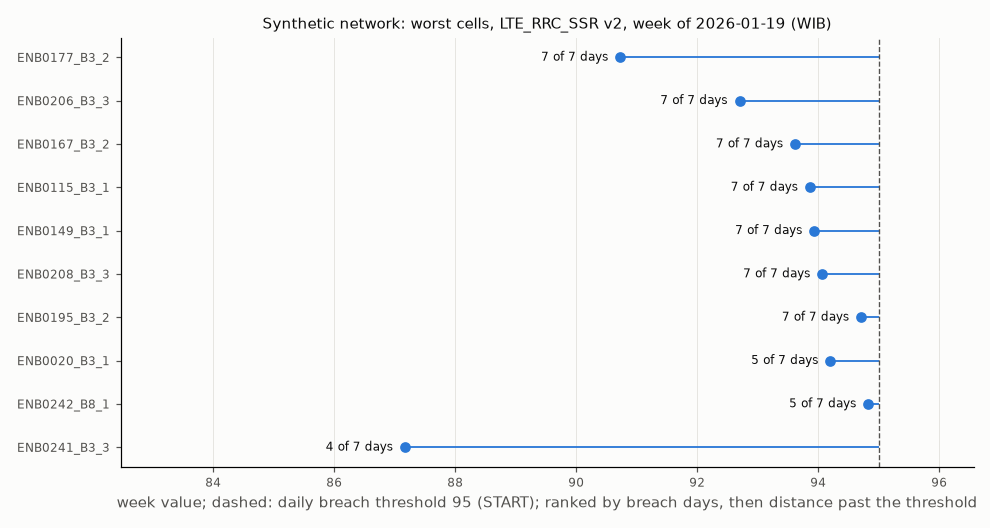
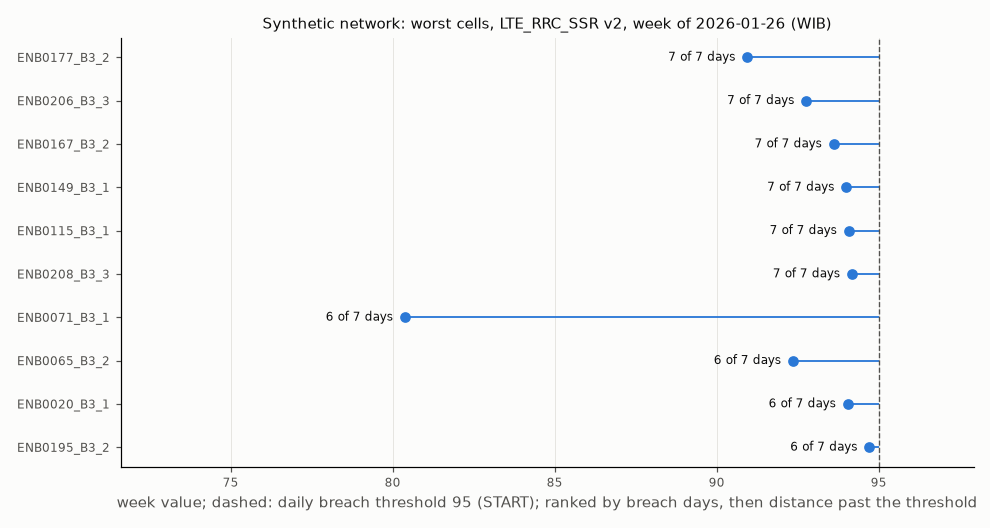
feat: weight prb by n_rb across cells and explain the weekend throughput mix

diff --git a/src/ran_lakehouse/lake/gold_report.py b/src/ran_lakehouse/lake/gold_report.py
@@ -21,6 +21,7 @@ from pathlib import Path
 from typing import Any
 
 import matplotlib
+import pyarrow as pa
 
 matplotlib.use("Agg")
 import matplotlib.pyplot as plt
@@ -77,8 +78,41 @@ SELECT CAST(period_start + INTERVAL 7 HOUR AS DATE) AS day,
     100 * (sum(rrc_succ) / sum(rrc_att)) * (sum(s1_succ) / sum(s1_att)) AS rrc_v2,
     100 * sum(erab_rel) / sum(erab_succ) AS erab_drop,
     sum(ip_vol_kbit) / sum(ip_time_ms) AS thp_mbit,
-    avg(prb_pct) AS prb
-FROM lk.gold.lte_cell_15m GROUP BY 1 ORDER BY 1
+    sum(prb_pct * n_rb) / sum(n_rb) FILTER (WHERE prb_pct IS NOT NULL) AS prb
+FROM lk.gold.lte_cell_15m JOIN lk.gold.cells USING (cell_name) GROUP BY 1 ORDER BY 1
+"""
+# Weekday against weekend (WIB) per area class, for the traffic-mix check.
+MIX = """
+WITH w AS (
+    SELECT g.*, dayofweek(period_start + INTERVAL 7 HOUR) IN (0, 6) AS weekend,
+        CAST(period_start + INTERVAL 7 HOUR AS DATE) AS day
+    FROM lk.gold.lte_cell_15m g
+)
+SELECT c.area, w.weekend, sum(ip_vol_kbit) / sum(ip_time_ms) AS thp_mbit,
+    sum(ip_vol_kbit) AS volume,
+    sum(prb_pct * n_rb) / sum(n_rb) FILTER (WHERE prb_pct IS NOT NULL) AS prb
+FROM w JOIN area_class c USING (cell_name) JOIN lk.gold.cells USING (cell_name)
+WHERE w.day IN (SELECT day FROM complete)
+GROUP BY ALL ORDER BY ALL
+"""
+MIX_CQI = """
+SELECT c.area, dayofweek(period_start + INTERVAL 7 HOUR) IN (0, 6) AS weekend,
+    sum(cqi_weighted) / sum(cqi_samples) AS cqi
+FROM lk.gold.lte_cell_60m JOIN area_class c USING (cell_name)
+WHERE CAST(period_start + INTERVAL 7 HOUR AS DATE) IN (SELECT day FROM complete)
+GROUP BY ALL ORDER BY ALL
+"""
+MIX_CELLS = """
+WITH per AS (
+    SELECT cell_name, dayofweek(period_start + INTERVAL 7 HOUR) IN (0, 6) AS weekend,
+        sum(ip_vol_kbit) / sum(ip_time_ms) AS thp, avg(prb_pct) AS prb
+    FROM lk.gold.lte_cell_15m
+    WHERE CAST(period_start + INTERVAL 7 HOUR AS DATE) IN (SELECT day FROM complete)
+    GROUP BY ALL
+)
+SELECT count(*), count(*) FILTER (WHERE e.thp >= d.thp),
+    count(*) FILTER (WHERE e.thp < d.thp AND e.prb < d.prb)
+FROM per d JOIN per e ON d.cell_name = e.cell_name AND NOT d.weekend AND e.weekend
 """
 NETWORK_GSM = """
 SELECT CAST(period_start + INTERVAL 7 HOUR AS DATE) AS day,
@@ -116,6 +150,7 @@ def build(warehouse: str) -> dict[str, Any]:
         RuntimeError: If gold was already built there.
     """
     target = Target("lake", warehouse)
+    model = default_model(build_world(PROFILE))
     con = target.connect()
     has_gold = scalar(
         con,
@@ -173,11 +208,11 @@ def build(warehouse: str) -> dict[str, Any]:
     complete = complete_days(con)
     network_lte = [r for r in con.execute(NETWORK_LTE).fetchall() if r[0] in complete]
     network_gsm = [r for r in con.execute(NETWORK_GSM).fetchall() if r[0] in complete]
+    mix = traffic_mix(con, model, complete)
     revision = con.execute(
         "SELECT kpi_id, from_version, to_version, effective_day, detail "
         "FROM lk.evaluation.kpi_revisions"
     ).fetchall()
-    model = default_model(build_world(PROFILE))
     faults = plan_faults(model, WEEKS)
     plan = plan_delivery(model, EMS_LIST, 7 * WEEKS)
     started = time.perf_counter()
@@ -243,6 +278,50 @@ def build(warehouse: str) -> dict[str, Any]:
         "model_check_seconds": round(check_s, 1),
         "model_check_wib_days": len(complete),
         "figures": {"faulted_cell": fault_note, "worst_cells": worst_note},
+        "weekend_traffic_mix": mix,
+    }
+
+
+def traffic_mix(con: Any, model: Any, complete: set[Any]) -> dict[str, Any]:
+    """Weekday against weekend per area class, and per cell (complete WIB days).
+
+    Args:
+        con: DuckDB with gold.
+        model: The network (area class per cell).
+        complete: Complete WIB days.
+
+    Returns:
+        Per class and day type: DL IP throughput, share of DL volume,
+        N_RB-weighted PRB utilization and mean CQI; and the count of cells
+        whose weekend throughput is at least their weekday one.
+    """
+    con.register(
+        "area_class",
+        pa.table(
+            {
+                "cell_name": [c.cell_name for c in model.world.cells],
+                "area": [str(a) for a in model.state.area_class],
+            }
+        ),
+    )
+    con.register("complete", pa.table({"day": pa.array(sorted(complete), pa.date32())}))
+    rows = con.execute(MIX).fetchall()
+    cqi = {(a, w): v for a, w, v in con.execute(MIX_CQI).fetchall()}
+    cells, not_lower, lower_both = con.execute(MIX_CELLS).fetchone() or (0, 0, 0)
+    total = {w: sum(r[3] for r in rows if r[1] == w) for w in (False, True)}
+    out: dict[str, Any] = {}
+    for area, weekend, thp, volume, prb in rows:
+        out.setdefault(area, {})["weekend" if weekend else "weekday"] = {
+            "dl_ip_throughput_mbit_s": round(thp, 2),
+            "share_of_dl_volume_pct": round(100 * volume / total[weekend], 1),
+            "prb_utilization_pct": round(prb, 1),
+            "mean_cqi": round(cqi[(area, weekend)], 2),
+        }
+    return {
+        "by_area_class": out,
+        "cells": int(cells),
+        "cells_weekend_throughput_not_lower": int(not_lower),
+        "cells_lower_throughput_and_lower_prb": int(lower_both),
     }
 
 
@@ -263,7 +342,7 @@ def plot_trends(lte: list[tuple[Any, ...]], gsm: list[tuple[Any, ...]], revision
         ),
         ("LTE E-RAB drop rate (%)", [(days, [r[4] for r in lte], None)]),
         ("LTE DL IP throughput (Mbit/s)", [(days, [r[5] for r in lte], None)]),
-        ("LTE DL PRB utilization (%)", [(days, [r[6] for r in lte], None)]),
+        ("LTE DL PRB utilization, N_RB-weighted (%)", [(days, [r[6] for r in lte], None)]),
         ("GSM service access success (%)", [([r[0] for r in gsm], [r[1] for r in gsm], None)]),
         ("GSM TCH blocking (%)", [([r[0] for r in gsm], [r[2] for r in gsm], None)]),
     ]
@@ -467,6 +546,8 @@ def render_catalog(record: dict[str, Any]) -> str:
         "15-minute periods; hourly periods for the CQI KPI) and its suspect share (suspect /",
         "reported periods), so gaps (rule D3) and suspect data (rule D4) stay visible.",
         "Granularities: 15 minutes and hours in UTC, days and weeks (from Monday) in WIB.",
+        "Values are per cell. Over several cells, ratio KPIs sum their counters first; PRB",
+        "utilization is weighted by each cell's N_RB (gold.cells, TS 36.101 Table 5.6-1).",
         "Counter names: TS 32.425 (LTE) and TS 52.402 (GSM). Breach thresholds drive the",
         "weekly worst-cell ranking (rule L5): a day is judged when its coverage is at least",
         f"{record['min_coverage']}; a cell is persistent when it breaches on "
@@ -581,6 +662,28 @@ def render_markdown(record: dict[str, Any]) -> str:
         *[
             f"| {k} | {v['weeks']} | {v['persistent_cell_weeks']} | {v['most_in_a_week']} |"
             for k, v in record["worst_cells"].items()
+        ],
+        "",
+        "## Weekend throughput: a traffic-mix effect",
+        "",
+        "Network DL IP throughput is lower at weekends although PRB use is lower too. Cell by",
+        f"cell it is not: {record['weekend_traffic_mix']['cells_weekend_throughput_not_lower']:,}"
+        f" of {record['weekend_traffic_mix']['cells']:,} LTE cells have a weekend throughput at",
+        "least their weekday one, and "
+        f"{record['weekend_traffic_mix']['cells_lower_throughput_and_lower_prb']} have both lower "
+        "throughput and lower PRB use.",
+        "At weekends traffic moves from the urban business areas, where the radio is best, to",
+        "residential and suburban cells, so the network mean falls (complete WIB days,",
+        "weekday against Saturday and Sunday):",
+        "",
+        "| Area class | Day | DL IP throughput (Mbit/s) | Share of DL volume (%) | "
+        "PRB utilization, N_RB-weighted (%) | Mean CQI |",
+        "|---|---|---|---|---|---|",
+        *[
+            f"| {area} | {day} | {v['dl_ip_throughput_mbit_s']} | "
+            f"{v['share_of_dl_volume_pct']} | {v['prb_utilization_pct']} | {v['mean_cqi']} |"
+            for area, days in record["weekend_traffic_mix"]["by_area_class"].items()
+            for day, v in sorted(days.items())
         ],
         "",
         "## A faulted cell",

diff --git a/tests/test_gold.py b/tests/test_gold.py
@@ -255,3 +255,14 @@ def test_dbt_runs_again_only_after_a_clock_step(
     else:
         with pytest.raises(RuntimeError, match="column not found"):
             build.dbt(window, {}, "", [])
+
+
+def test_cells_carry_the_resource_blocks_of_their_bandwidth(
+    con: duckdb.DuckDBPyConnection, tiny: NetworkModel
+) -> None:
+    stored = dict(rows(con, "SELECT cell_name, n_rb FROM lk.gold.cells"))
+    for cell, technology, n_rb in zip(
+        tiny.world.cells, tiny.state.technology, tiny.state.n_rb, strict=True
+    ):
+        expected = int(n_rb) if technology == "LTE" else None
+        assert stored[cell.cell_name] == expected, cell.cell_name

diff --git a/src/ran_lakehouse/lake/kpi_catalog.py b/src/ran_lakehouse/lake/kpi_catalog.py
@@ -196,7 +196,10 @@ KPIS = (
         "lower",
         80.0,
         None,
-        "Mean over all periods or over the busy hour only; DL only or DL and UL.",
+        "Mean over all periods or over the busy hour only; DL only or DL and UL. Gold's "
+        "values are per cell; over several cells (an area or the network) PRB utilization "
+        "is weighted by each cell's downlink resource blocks: sum(RRU.PrbTotDl * N_RB) / "
+        "sum(N_RB), N_RB from the cell's bandwidth (TS 36.101 Table 5.6-1, gold.cells).",
     ),
     Kpi(
         "LTE_CQI_MEAN",

diff --git a/results/gold_build.md b/results/gold_build.md
@@ -11,7 +11,7 @@ rule S2), one UTC day at a time, recomputing the WIB days and weeks each day tou
 ## Formula revision (rule D6)
 
 LTE_RRC_SSR v1 to v2, current from 2026-03-02 (WIB): history reprocessed from 2026-01-04 before the build reached UTC day 2026-03-01. Both versions are kept for the whole
-history. Network daily mean over the run: v1 98.54 %, v2 98.433 %.
+history. Network daily mean over the run: v1 98.638 %, v2 98.531 %.
 
 ## Agreement with the model
 
@@ -55,7 +55,7 @@ Persistent: breach on 3 of 7 days of a WIB week, days judged at coverage 0.75 or
 
 ![Worst cells](gold_worst_cells.png)
 
-The figure: LTE_RRC_SSR v2, week of 2026-01-19, top 10 persistent cells.
+The figure: LTE_RRC_SSR v2, week of 2026-01-26, top 10 persistent cells.
 
 | KPI | Weeks with a persistent cell | Persistent cell-weeks | Most in one week |
 |---|---|---|---|
@@ -63,12 +63,30 @@ The figure: LTE_RRC_SSR v2, week of 2026-01-19, top 10 persistent cells.
 | GSM_HOSR v1 | 9 | 16 | 3 |
 | GSM_SAS v1 | 12 | 29 | 3 |
 | GSM_TCH_BLOCK v1 | 12 | 71 | 7 |
-| LTE_ERAB_ACC v1 | 12 | 230 | 68 |
-| LTE_ERAB_DROP v1 | 12 | 174 | 29 |
+| LTE_ERAB_ACC v1 | 12 | 95 | 12 |
+| LTE_ERAB_DROP v1 | 12 | 135 | 14 |
 | LTE_MOB_HOSR v1 | 9 | 14 | 2 |
 | LTE_PRB_UTIL v1 | 12 | 131 | 12 |
-| LTE_RRC_SSR v1 | 12 | 283 | 81 |
-| LTE_RRC_SSR v2 | 12 | 294 | 84 |
+| LTE_RRC_SSR v1 | 12 | 131 | 16 |
+| LTE_RRC_SSR v2 | 12 | 137 | 17 |
+
+## Weekend throughput: a traffic-mix effect
+
+Network DL IP throughput is lower at weekends although PRB use is lower too. Cell by
+cell it is not: 1,021 of 1,452 LTE cells have a weekend throughput at
+least their weekday one, and 20 have both lower throughput and lower PRB use.
+At weekends traffic moves from the urban business areas, where the radio is best, to
+residential and suburban cells, so the network mean falls (complete WIB days,
+weekday against Saturday and Sunday):
+
+| Area class | Day | DL IP throughput (Mbit/s) | Share of DL volume (%) | PRB utilization, N_RB-weighted (%) | Mean CQI |
+|---|---|---|---|---|---|
+| rural | weekday | 4.39 | 13.2 | 19.0 | 9.88 |
+| rural | weekend | 4.23 | 15.7 | 19.4 | 9.88 |
+| suburban | weekday | 6.57 | 52.5 | 26.6 | 9.66 |
+| suburban | weekend | 6.24 | 62.4 | 27.3 | 9.66 |
+| urban | weekday | 6.85 | 34.3 | 14.8 | 8.94 |
+| urban | weekend | 4.9 | 22.0 | 10.9 | 8.43 |
 
 ## A faulted cell
 
@@ -81,22 +99,22 @@ A3), so the cell and the date are withheld.
 
 | Table | Rows | Data files | MB |
 |---|---|---|---|
-| gold.cells | 1,716 | 88 | 2.6 |
-| gold.lte_cell_15m | 11,592,768 | 84 | 333.9 |
-| gold.lte_cell_60m | 2,898,192 | 86 | 36.1 |
-| gold.gsm_cell_15m | 2,107,776 | 86 | 26.1 |
-| gold.lte_kpi_15m | 96,295,024 | 140 | 691.9 |
-| gold.lte_kpi_hour | 27,008,131 | 140 | 287.3 |
+| gold.cells | 1,716 | 89 | 2.7 |
+| gold.lte_cell_15m | 11,592,768 | 84 | 334.6 |
+| gold.lte_cell_60m | 2,898,192 | 84 | 35.2 |
+| gold.gsm_cell_15m | 2,107,776 | 84 | 25.5 |
+| gold.lte_kpi_15m | 96,295,024 | 140 | 695.4 |
+| gold.lte_kpi_hour | 27,008,131 | 141 | 288.2 |
 | gold.lte_kpi_day | 1,135,092 | 182 | 34.0 |
 | gold.lte_kpi_week | 162,156 | 110 | 20.1 |
-| gold.gsm_kpi_15m | 12,646,656 | 86 | 50.1 |
-| gold.gsm_kpi_hour | 3,166,416 | 86 | 18.4 |
-| gold.gsm_kpi_day | 133,056 | 168 | 3.6 |
+| gold.gsm_kpi_15m | 12,646,656 | 84 | 49.1 |
+| gold.gsm_kpi_hour | 3,166,416 | 84 | 17.9 |
+| gold.gsm_kpi_day | 133,056 | 167 | 3.5 |
 | gold.gsm_kpi_week | 19,008 | 95 | 2.2 |
-| gold.worst_cells_week | 1,317 | 121 | 0.4 |
+| gold.worst_cells_week | 834 | 121 | 0.3 |
 | gold.kpi_catalog | 17 | 2 | 0.0 |
 | gold.loads | 174 | 85 | 0.1 |
-| total | | | 1,506.7 |
+| total | | | 1,509.0 |
 
 ## Cost
 
@@ -105,11 +123,11 @@ Measured on the build machine; varies run to run. Each dbt run is its own proces
 | Step | Value |
 |---|---|
 | UTC days built | 84 |
-| dbt runs | 96 |
-| dbt runs rerun after a wall-clock step | 4 |
-| seconds, days | 1,510.3 |
-| seconds, revision reprocessing | 112.9 |
-| seconds, build total | 1,634.3 |
-| seconds, model check | 95.5 |
-| peak RSS, Python (MB) | 258 |
-| peak RSS, largest dbt run (MB) | 1,045 |
+| dbt runs | 98 |
+| dbt runs rerun after a wall-clock step | 6 |
+| seconds, days | 1,518.7 |
+| seconds, revision reprocessing | 119.1 |
+| seconds, build total | 1,648.7 |
+| seconds, model check | 94.7 |
+| peak RSS, Python (MB) | 748 |
+| peak RSS, largest dbt run (MB) | 1,038 |

diff --git a/results/kpi_catalog.md b/results/kpi_catalog.md
@@ -6,6 +6,8 @@ no value (NULL), never 0. Each value carries its coverage (reported / expected
 15-minute periods; hourly periods for the CQI KPI) and its suspect share (suspect /
 reported periods), so gaps (rule D3) and suspect data (rule D4) stay visible.
 Granularities: 15 minutes and hours in UTC, days and weeks (from Monday) in WIB.
+Values are per cell. Over several cells, ratio KPIs sum their counters first; PRB
+utilization is weighted by each cell's N_RB (gold.cells, TS 36.101 Table 5.6-1).
 Counter names: TS 32.425 (LTE) and TS 52.402 (GSM). Breach thresholds drive the
 weekly worst-cell ranking (rule L5): a day is judged when its coverage is at least
 0.75; a cell is persistent when it breaches on 3 of the week's 7 days. Thresholds, N and the coverage floor are START values.
@@ -79,7 +81,7 @@ Which release causes count as drops (ERAB.RelActNbr counts abnormal releases wit
 
 `sum of RRU.PrbTotDl [%] / reported periods`
 
-Mean over all periods or over the busy hour only; DL only or DL and UL.
+Mean over all periods or over the busy hour only; DL only or DL and UL. Gold's values are per cell; over several cells (an area or the network) PRB utilization is weighted by each cell's downlink resource blocks: sum(RRU.PrbTotDl * N_RB) / sum(N_RB), N_RB from the cell's bandwidth (TS 36.101 Table 5.6-1, gold.cells).
 
 ### LTE_CQI_MEAN v1: Mean downlink wideband CQI
 
